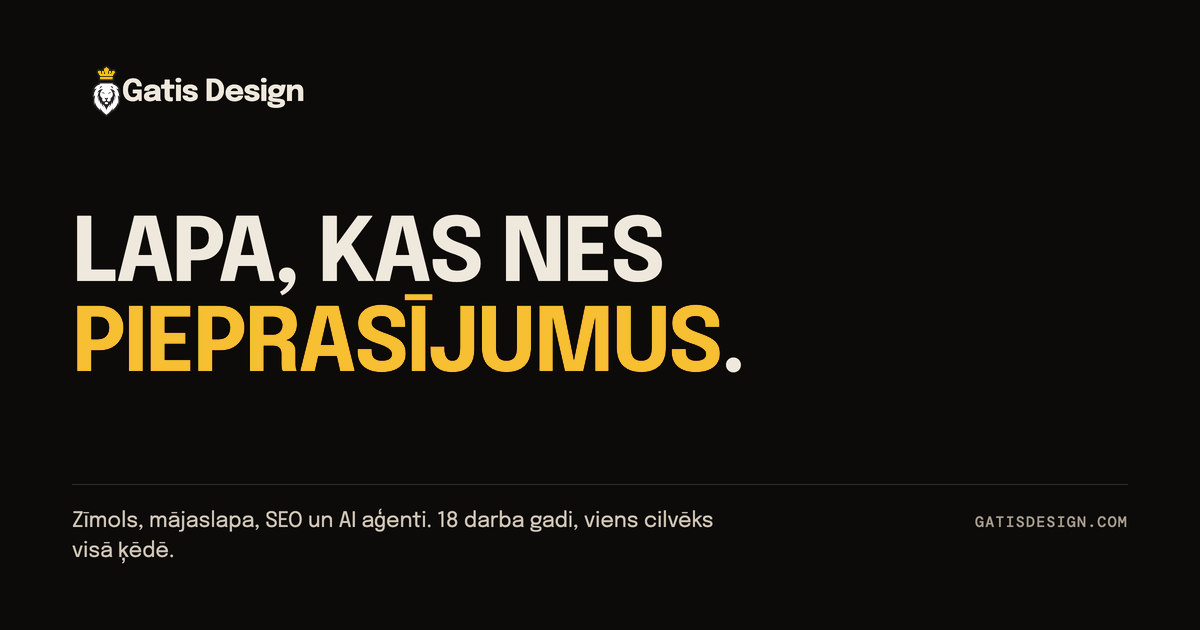
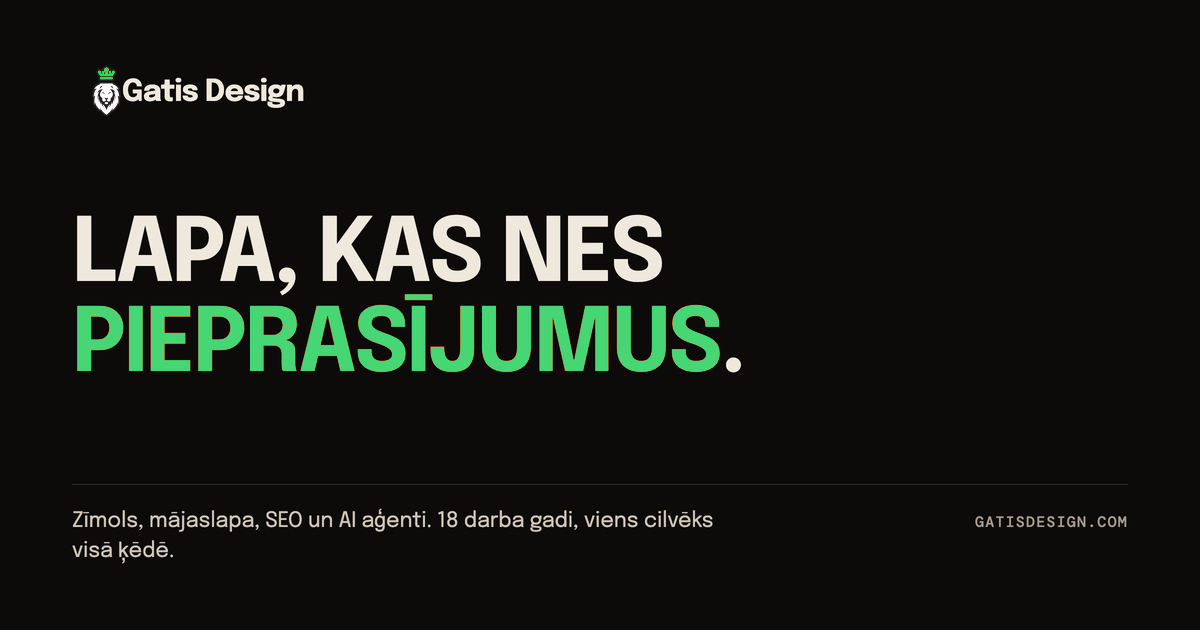
feat(zimols): akcents uz Gata zaļo paleti; papīra rinda kļūst neitrāla
Gatis 08.09 iedeva piecu krāsu paleti un izvēlējās to visai lapai, ne tikai
pogai; kroni logo viņš pārkrāso pats, tāpēc zīme un lapa paliek vienā sistēmā.

  --amber          #23D962   10,49:1 uz grafīta   (Gata)
  --amber-soft     #3EE076   11,39:1              (atvasināta)
  --amber-deep     #21BF48    8,09:1              (Gata)
  --amber-on-paper #127234    5,29:1 uz papīra    (atvasināta)
  --on-amber       #0D0A0A   10,49:1 uz pildījuma (Gata)
  --ink-900        #0D0A0A                        (Gata)
  --paper          #F2F2F2   17,62:1 uz grafīta   (Gata)

DIVAS VĒRTĪBAS IR ATVASINĀTAS, NE DOTAS. Paletē visas trīs zaļās ir bāzes
gaišumā vai tumšākas, bet sistēmai vajag arī GAIŠĀKU (hover un aktīvais
stāvoklis) un daudz tumšāku (teksts uz gaišas virsmas). Abas rēķinātas tajā pašā
tonī un piesātinājumā. Trešā zaļā #1CA64C vietu neatrada: tā ir tuvu #21BF48
(6,21 pret 8,09), un "dziļajam" pildījumam sistēmā ir viena vieta, ne divas.

PAPĪRA RINDA KĻŪST NEITRĀLA. Bija #EFE8DC ar 37% piesātinājumu - silts krēms,
kas der vara un dzeltenam akcentam; blakus zaļajam tas pats siltums lasās kā
netīrs balts. Pakāpieni zem bāzes pārkrāsoti tajā pašā gaišumā, kāds tiem bija,
tāpēc visi izmērītie kontrasti paliek spēkā (starpība zem 0,5).

Līdzi pārkrāsots ciparu lietus, abu peldošo pogu ēnas un koplietošanas attēls
(23166 pikseļi, dzeltenā 1110 -> 0, zaļā 0 -> 1110).

Pārbaudīts pēc būves četrās lapās, katram tekstam pret tā īsto fonu: nulle
tekstu zem WCAG robežas.
[…]

Changed region(s): [[0.0617, 0.4524, 0.6167, 0.6032]]

diff --git a/src/styles/tokens.css b/src/styles/tokens.css
@@ -6,26 +6,31 @@
 /*
  * Dizaina tokeni - virziens "Direction" (apstiprināta kanva 2026-09-05).
  *
- * AKCENTS NĀK NO LOGO. 2026-09-08 akcents nomainīts no vara #DF541E uz #FEBC11
- * - tieši to dzelteno, kas ir lauvas kronī (public/media/lauva.svg, .cls-1).
- * Iemesls bija redzams: kad zīme galvenē kļuva 64 px liela, kronis bija
- * vienīgais dzeltenais objekts visā lapā un lasījās kā svešķermenis.
+ * AKCENTS NĀK NO LOGO. 2026-09-08 akcents nomainīts uz Gata zaļo paleti
+ * (#23D962), un Gatis tajā pašā dienā pārkrāso lauvas kroni - tāpēc zīme un
+ * lapa paliek vienā sistēmā. Iepriekš tas bija kroņa dzeltenais #FEBC11, pirms
+ * tam vara #DF541E.
  *
  * Kontrasta vārti (WCAG 2.1 AA, pārmērīts 2026-09-08):
- *   kronis #FEBC11 uz grafīta #0D0B09 ...... 11,61:1  teksts un akcents - atļauts
- *   kronis #FEBC11 uz ink-850 #121010 ...... 11,21:1  teksts un akcents - atļauts
- *   kronis #FEBC11 uz ink-card #181513 ..... 10,74:1  teksts uz kartēm - atļauts
- *   #1A1206 uz kroņa pildījuma ............ 10,96:1  pogu teksts - atļauts
- *   kronis #FEBC11 uz papīra #EFE8DC ....... 1,39:1  KRĪT - nekad, ne pat pildījums
- *   #7A5801 uz papīra #EFE8DC .............. 5,35:1  teksts uz papīra - atļauts
- *   #AD7D01 uz grafīta #0D0B09 ............. 5,34:1  klusākais akcenta pildījums
- *   papīrs-faint #948A7D uz kartes #161211 . 5,48:1  vismazākais sekundārais teksts
+ *   zaļā #23D962 uz grafīta #0D0A0A ........ 10,49:1  teksts un akcents - atļauts
+ *   zaļā #23D962 uz ink-850 #121010 ........ 10,13:1  teksts un akcents - atļauts
+ *   #0D0A0A uz zaļā pildījuma ............. 10,49:1  pogu teksts - atļauts
+ *   zaļā-gaišā #3EE076 uz grafīta .......... 11,39:1  hover un aktīvais stāvoklis
+ *   zaļā-dziļā #21BF48 uz grafīta ........... 8,09:1  klusākais akcenta pildījums
+ *   zaļā #23D962 uz papīra #F2F2F2 .......... 1,68:1  KRĪT - nekad, ne pat pildījums
+ *   #127234 uz papīra #F2F2F2 ............... 5,29:1  teksts uz gaišas virsmas
+ *   papīrs #F2F2F2 uz grafīta .............. 17,62:1  pamatteksts
  *
- * Dzeltenais uz tumša ir DIVREIZ kontrastaināks par veco varu (11,61 pret
- * 5,07), bet uz papīra tas nav lietojams nemaz: 1,39:1 pret vara 3,18:1. Tāpēc
- * akcents joprojām ir DIVI tokeni, ne viens: --amber (tumšās virsmas,
- * pildījumi) un --amber-on-paper (teksts uz papīra kājenes). Tos nedrīkst
- * sajaukt vietām, un tagad kļūda būtu nesalīdzināmi redzamāka.
+ * DIVAS VĒRTĪBAS IR ATVASINĀTAS, NE DOTAS. Gata paletē visas trīs zaļās ir
+ * bāzes gaišumā vai tumšākas, bet sistēmai vajag arī GAIŠĀKU (hover un aktīvais
+ * stāvoklis) un daudz tumšāku (teksts uz gaišas virsmas). Abas rēķinātas tajā
+ * pašā tonī un piesātinājumā: --amber-soft L 56%, --amber-on-paper L 26%.
+ * Trešā Gata zaļā #1CA64C sistēmā vietas neatrada - tā ir tuvu #21BF48 (6,21
+ * pret 8,09 uz grafīta), un "dziļajam" pildījumam ir viena vieta, ne divas.
+ *
+ * Akcents joprojām ir DIVI tokeni, ne viens: --amber (tumšās virsmas,
+ * pildījumi) un --amber-on-paper (gaišas virsmas). Uz papīra zaļā ir 1,68:1 -
+ * neredzama.
  */
 
 /*
@@ -137,36 +142,41 @@
 :root {
   /* --- Grafīta virsmas --- */
   --ink-950: #0a0908;
-  --ink-900: #0d0b09;
+  --ink-900: #0d0a0a;
   --ink-850: #121010;
   /* Tie paši toņi kanālos. Tailwind caurspīdīguma modifikators (`bg-ink-900/85`)
      ar `var(--ink-900)` NEDARBOJAS - utilītklase vienkārši netiek ģenerēta un
      fons pazūd bez kļūdas. Šīs trīs virsmas lieto ar caurspīdīgumu (lipīgā
      galvene, filtru josla, lightbox fons), tāpēc tām vajag kanālus. */
   --ink-950-rgb: 10 9 8;
-  --ink-900-rgb: 13 11 9;
+  --ink-900-rgb: 13 10 10;
   --ink-850-rgb: 18 16 16;
   --ink-card: #161211;
   --ink-800: #181513;
   --ink-750: #211d1a;
 
   /* --- Papīrs --- */
-  --paper: #efe8dc;
-  --paper-2: #cfc5b6;
-  --paper-dim: #a69c8e;
-  --paper-faint: #948a7d;
+  /* Papīra rinda ir NEITRĀLA, ne silta. Agrāk tā bija #EFE8DC ar 37%
+     piesātinājumu - silts krēms, kas der vara un dzeltenam akcentam. Blakus
+     zaļajam tas pats siltums lasās kā nedaudz netīrs balts. Pakāpieni zem bāzes
+     pārkrāsoti tajā pašā GAIŠUMĀ, kāds tiem bija, tāpēc visi izmērītie
+     kontrasti paliek spēkā (starpība zem 0,5). */
+  --paper: #f2f2f2;
+  --paper-2: #c2c2c2;
+  --paper-dim: #9a9a9a;
+  --paper-faint: #888888;
   /* Uz papīra fona (kājene): teksts un sekundārais teksts */
   --on-paper: #0d0b09;
   --on-paper-dim: #5c544a;
 
   /* --- Vara --- */
-  --amber: #febc11;
-  --amber-soft: #fec93e;
-  --amber-deep: #ad7d01;
-  /** Teksts un saites uz papīra virsmām. Uz papīra --amber ir 1,39:1 - neredzams. */
-  --amber-on-paper: #7a5801;
+  --amber: #23d962;
+  --amber-soft: #3ee076;
+  --amber-deep: #21bf48;
+  /** Teksts un saites uz papīra virsmām. Uz papīra --amber ir 1,68:1 - neredzams. */
+  --amber-on-paper: #127234;
   /** Teksts uz vara pildījuma (pogas). */
-  --on-amber: #1a1206;
+  --on-amber: #0d0a0a;
 
   /* --- Pārklājumi (scrim) ---
    * Grafīts kā RGB kanāli, lai caurspīdīgums nāktu no tokena, ne no ar roku
@@ -217,7 +227,7 @@
   /* Saišu pasvītrojums. Ar veco varu saplūdusī krāsa uz grafīta bija 2,61:1,
      tas ir, ZEM 3:1, ko WCAG prasa saskarnes elementam; ar kroņa dzelteno tā ir
      4,09:1. Krāsas maiņa te salaboja arī to, ko neviens nebija pamanījis. */
-  --line-amber: rgba(254, 188, 17, 0.55);
+  --line-amber: rgba(35, 217, 98, 0.55);
   --line-on-paper: rgba(13, 11, 9, 0.16);
 
   /* --- Fonti --- */

diff --git a/src/components/WhatsAppPoga.tsx b/src/components/WhatsAppPoga.tsx
@@ -10,8 +10,8 @@ import { WHATSAPP } from "@/lib/site";
  * kopā izskatās kā pāris, ne kā divi svešķermeņi. Ka aiz tās ir WhatsApp,
  * pasaka nosaukums, kas atveras uz hover, un `aria-label`.
  *
- * Uz dzeltenā pildījuma ikona un teksts ir tumši (#1A1206, 10,96:1). Balts uz
- * dzeltenā būtu 1,39:1 - tas nav lasāms nemaz.
+ * Uz dzeltenā pildījuma ikona un teksts ir tumši (#1A1206, 10,49:1). Balts uz
+ * zaļā būtu 1,68:1 - tas nav lasāms nemaz.
  *
  * KUSTĪBA IR VIENA, NE TRĪS. Reize pa reizei no pogas izplūst viens gaismas
  * gredzens. Tas ir pietiekami, lai acs to pamanītu perifērijā, un par maz, lai
@@ -38,7 +38,7 @@ export default function WhatsAppPoga() {
       title={virsraksts}
       className={[
         "wa-poga group fixed left-5 z-[150] inline-flex h-11 items-center gap-0 overflow-hidden rounded-full",
-        "bg-amber pe-0 ps-0 text-on-amber [box-shadow:0_10px_30px_-12px_rgb(254_188_17_/_0.55)]",
+        "bg-amber pe-0 ps-0 text-on-amber [box-shadow:0_10px_30px_-12px_rgb(35_217_98_/_0.55)]",
         "transition-[background-color,padding] duration-300 ease-dir",
         "hover:bg-amber-soft",
         "focus-visible:outline focus-visible:outline-2 focus-visible:outline-offset-2 focus-visible:outline-paper",

diff --git a/src/components/ScrollToTop.tsx b/src/components/ScrollToTop.tsx
@@ -84,10 +84,10 @@ export default function ScrollToTop() {
       // klikšķus arī tad, kad to neredz.
       className={[
         "fixed right-5 z-[150] grid h-11 w-11 place-items-center rounded-full",
-        // Akcenta pildījums, tumša bultiņa. Uz dzeltenā #1A1206 ir 10,96:1;
-        // pati poga pret grafīta lapu ir 11,61:1, tāpēc malas tai vairs
+        // Akcenta pildījums, tumša bultiņa. Uz dzeltenā #1A1206 ir 10,49:1;
+        // pati poga pret grafīta lapu ir 10,49:1, tāpēc malas tai vairs
         // nevajag - uz tumša fona dzeltens aplis ir robeža pats par sevi.
-        "bg-amber text-on-amber [box-shadow:0_10px_30px_-12px_rgb(254_188_17_/_0.55)]",
+        "bg-amber text-on-amber [box-shadow:0_10px_30px_-12px_rgb(35_217_98_/_0.55)]",
         "transition-[opacity,transform,background-color] duration-300 ease-dir",
         "hover:bg-amber-soft focus-visible:outline focus-visible:outline-2 focus-visible:outline-offset-2 focus-visible:outline-paper",
         redzama ? "opacity-100 translate-y-0" : "pointer-events-none opacity-0 translate-y-2",

diff --git a/src/components/direction/CiparuLietus.tsx b/src/components/direction/CiparuLietus.tsx
@@ -10,7 +10,7 @@ import { useEffect, useRef } from "react";
  * tieši virsū, tas ir tikko saskatāms. Tieši tas arī bija mērķis - fons, ne
  * priekšnesums.
  *
- * KRĀSA. Matrix zaļā šeit sadurtos ar visu pārējo: lapas akcents ir #FEBC11,
+ * KRĀSA. Matrix zaļā šeit sadurtos ar visu pārējo: lapas akcents ir #23D962,
  * un divas piesātinātas krāsas fonā cīnītos savā starpā. Cipari ir papīra
  * krāsā, un tikai kolonnas galva ik pa laikam iedegas akcenta krāsā.
  *
@@ -146,7 +146,7 @@ export default function CiparuLietus() {
           if (alfa < 0.004) continue;
           const c = k.zimes[(rinda + ASTE) % k.zimes.length];
           ctx!.fillStyle =
-            i === 0 && k.akcents ? `rgba(254, 188, 17, ${alfa * 1.3})` : `rgba(239, 232, 220, ${alfa})`;
+            i === 0 && k.akcents ? `rgba(35, 217, 98, ${alfa * 1.3})` : `rgba(242, 242, 242, ${alfa})`;
           ctx!.fillText(c, k.x, rinda * RINDA);
         }
       }

diff --git a/src/components/Footer.tsx b/src/components/Footer.tsx
@@ -16,7 +16,7 @@ import { openCookieSettings } from "./CookieBanner";
  *
  * TUMŠA, ne papīra. Līdz 2026-09-08 kājene bija gaišā papīra inversija zem
  * tumšās lapas. Tas maksāja vairāk, nekā deva: papīra virsmai vajadzēja savu
- * teksta krāsu, savu līniju krāsu, savu akcentu (#FEBC11 uz papīra ir 1,39:1
+ * teksta krāsu, savu līniju krāsu, savu akcentu (akcents uz papīra ir 1,68:1
  * un nav lietojams nemaz) un savu fokusa gredzenu - četri paralēli tokeni un
  * divi komponenšu karogi, lai viena sekcija būtu otrādi. Tagad lapa ir tumša
  * no augšas līdz apakšai, un kājeni no satura atdala tonis (ink-850), ne

diff --git a/src/index.css b/src/index.css
@@ -540,6 +540,6 @@
 .hero-nospiedums {
   font-size: clamp(88px, 15vw, 232px);
   color: transparent;
-  -webkit-text-stroke: 1px rgba(239, 232, 220, 0.13);
-  text-stroke: 1px rgba(239, 232, 220, 0.13);
+  -webkit-text-stroke: 1px rgba(242, 242, 242, 0.11);
+  text-stroke: 1px rgba(242, 242, 242, 0.11);
 }
